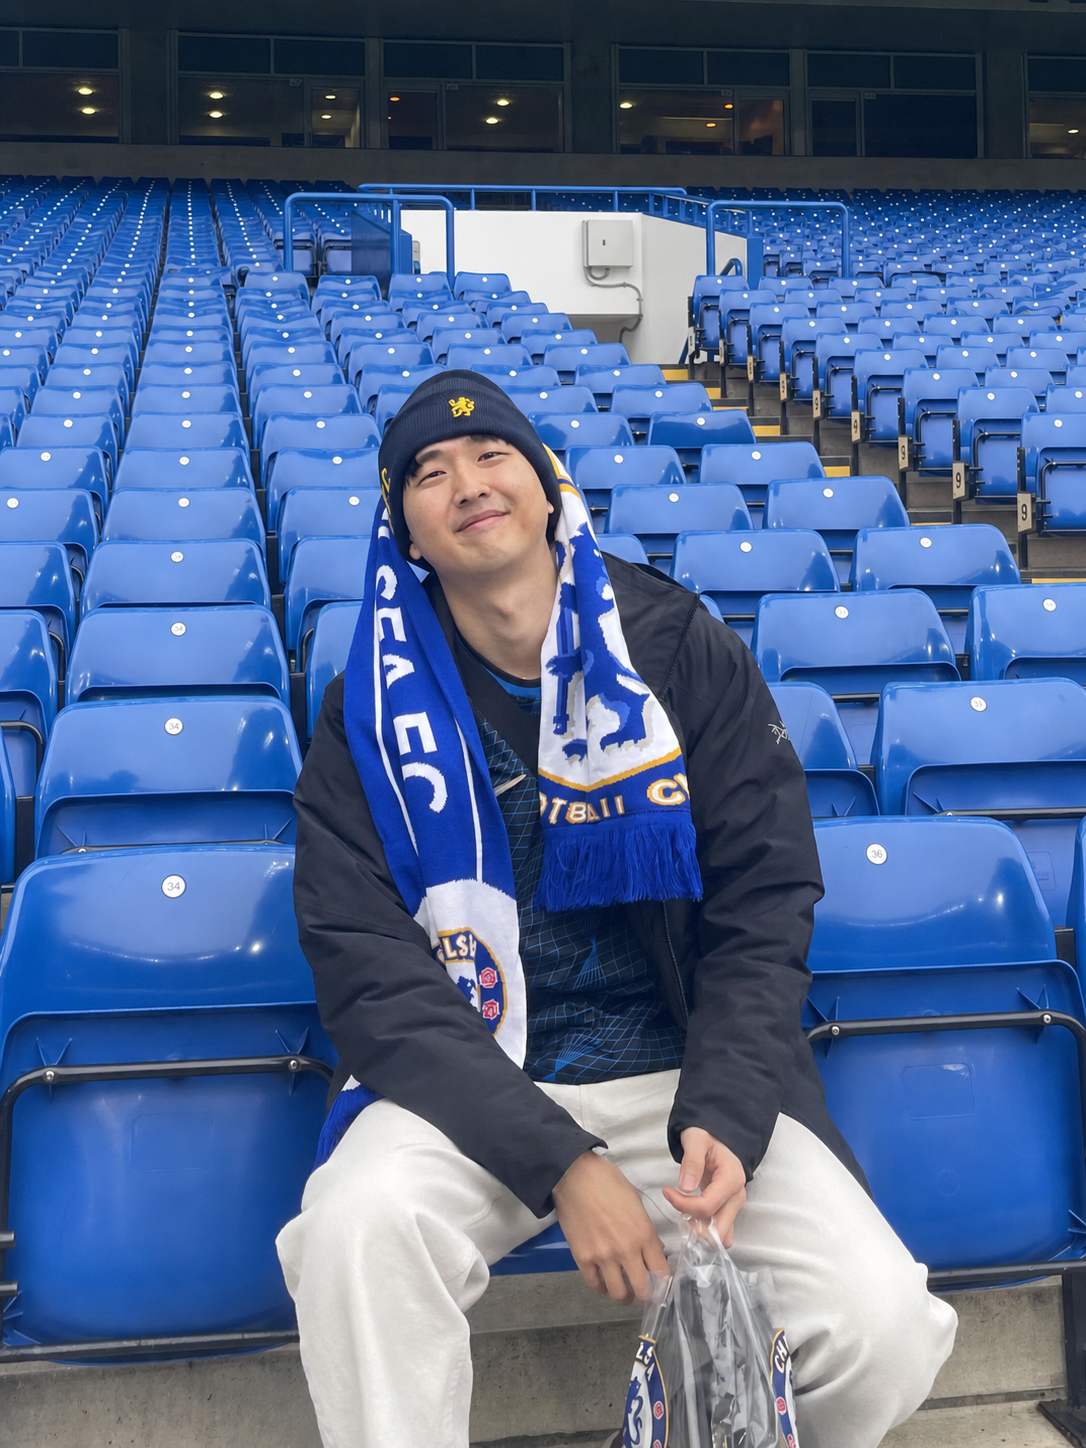
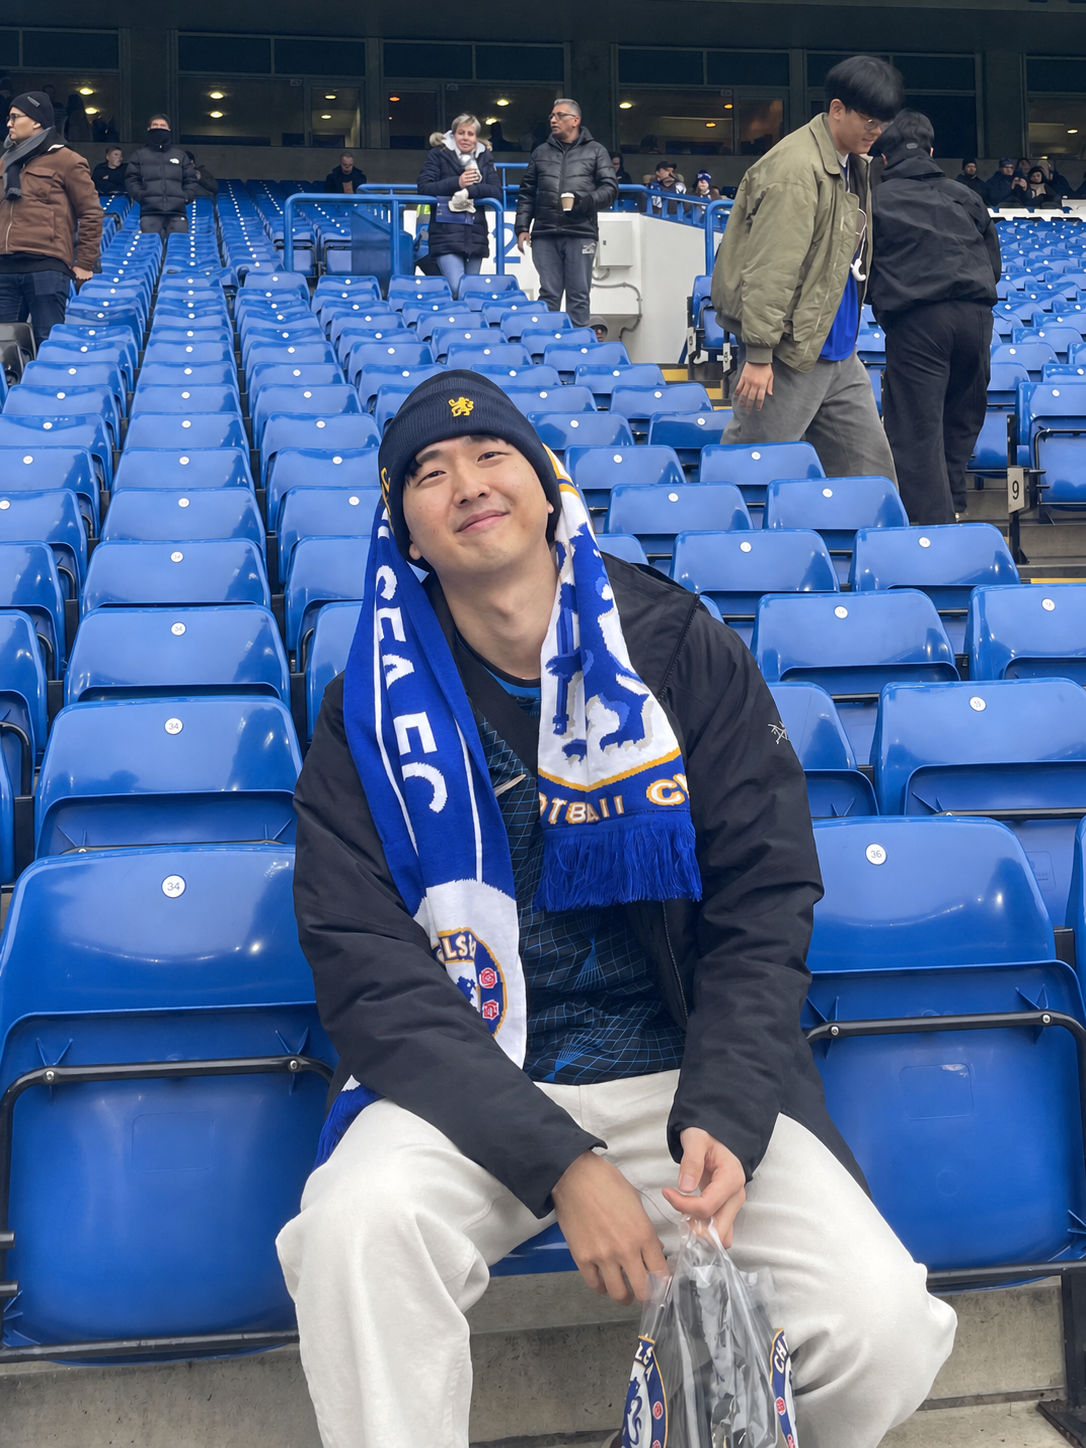
Update homepage layout and RL project poster

diff --git a/index.html b/index.html
@@ -5,13 +5,15 @@ title: "Joonsup Kim"
 
 <main class="home">
   <section class="intro">
+    <img class="profile-photo" src="{{ "/assets/images/joonsup-kim-profile.png" | relative_url }}" alt="Joonsup Kim at a football stadium">
     <div class="intro-copy">
-      <p class="eyebrow">Prospective PhD Applicant</p>
       <h1>Joonsup Kim</h1>
-      <p class="lead">
-        I am an M.S. student in Data Science at Seoul National University, advised by <a href="https://minoh.io">Prof. Min-hwan Oh</a>. My research focuses on bandit algorithms, reinforcement learning, online learning, and optimization for decision-making under uncertainty. Before joining SNU, I completed a double major in Mathematics and Economics at Yonsei University.
+      <p>
+        Hi, I’m Joonsup Kim. I’m an M.S. student in Data Science at Seoul National University, where I am fortunate to be advised by <a href="https://minoh.io">Prof. Min-hwan Oh</a>.
+      </p>
+      <p>
+        My research interests mainly lie in operations management, bandit algorithms, and reinforcement learning. Before joining SNU, I studied Mathematics and Economics at Yonsei University.
       </p>
     </div>
-    <img class="profile-photo" src="{{ "/assets/images/joonsup-kim-profile.png" | relative_url }}" alt="Joonsup Kim at a football stadium">
   </section>
 </main>

diff --git a/assets/css/index.sass b/assets/css/index.sass
@@ -60,13 +60,13 @@ body > *
 
   .intro
     display: grid
-    grid-template-columns: minmax(0, 1fr) 10em
+    grid-template-columns: minmax(0, 1fr) minmax(0, 3fr)
     align-items: center
-    gap: 2em
+    gap: 1.75em
     padding-bottom: 1.7em
 
   .profile-photo
-    width: 10em
+    width: 100%
     height: auto
     margin: 0
     border-radius: .75em
@@ -156,7 +156,7 @@ body > *
 
     .profile-photo
       grid-row: 1
-      width: 8em
+      width: 7em
 
     .two-column
       grid-template-columns: 1fr

diff --git a/signal-free-flow.md b/signal-free-flow.md
@@ -4,26 +4,22 @@ title: "Signal-Free Flow: Reinforcement Learning for Autonomous Intersections"
 permalink: /projects/signal-free-flow/
 ---
 
-![Average waiting time and throughput for fixed-signal, rule-based, and PPO controllers across traffic levels]({{ "/assets/images/projects/signal-free-flow-results.png" | relative_url }})
+![Signal-Free Flow reinforcement learning project poster]({{ "/assets/images/projects/signal-free-flow-poster.png" | relative_url }})
 
 **Reinforcement Learning Course Final Project · Team Project**
 
-Signal-Free Flow studies whether cooperative autonomous-driving policies can replace traffic lights at a four-way intersection. We built a custom simulator and compared a fixed-time signal controller, a cooperative rule-based controller, and a decentralized PPO policy under low-, medium-, and high-traffic conditions.
+Signal-Free Flow studies whether reinforcement learning can improve traffic flow at a fully autonomous four-way intersection. We built a custom simulator and compared fixed-time signal control, cooperative rule-based control, and a decentralized PPO policy.
 
 ## Approach
 
-Each active vehicle shares a PPO policy and chooses among deceleration, maintaining speed, and acceleration from a 54-dimensional local observation. Because reward design alone produced policies that either collided or became overly conservative, we introduced three safety priors:
+Pure reinforcement learning was highly sensitive to reward scaling: aggressive policies collided, while overly conservative policies stopped before entering the intersection. To make learning safer and more stable, we combined PPO with:
 
-- a rule-based controller encoding car-following and conflict-priority rules;
-- behavior-cloning warm start from approximately 6,000 expert state-action pairs;
-- a runtime safety shield that replaces unsafe actions before execution.
+- rule-based safety knowledge for safe distance, conflict detection, and yielding;
+- a behavior-cloning warm start from safe driving examples;
+- a runtime safety shield that overrides unsafe actions during PPO fine-tuning.
 
 ## Results
 
-The safety-aware PPO controller completed evaluation without collisions and outperformed both baselines on waiting time, delay, throughput, and completion rate across all three traffic levels. Compared with the fixed-time signal, it reduced average delay by **80%, 69%, and 38%** in low-, medium-, and high-traffic settings, respectively, while increasing throughput by approximately **2.8–3.4×**.
-
-The ablation study also showed that safety did not emerge reliably from reward tuning alone: removing the runtime shield caused every evaluation episode to end in a collision. The project therefore highlights a practical division of labor—explicit safety mechanisms define the admissible behavior, while reinforcement learning optimizes efficiency within that safe region.
-
-[View the full project report (PDF)]({{ "/assets/files/signal-free-flow-report.pdf" | relative_url }})
+The PPO controller reduced waiting time while increasing throughput across traffic levels. The project’s central finding is that reinforcement learning works best here when explicit safety mechanisms provide a reliable starting point and guard unsafe actions, allowing PPO to focus on traffic efficiency.
 
 [← Back to Projects]({{ "/projects/" | relative_url }})

diff --git a/education.md b/education.md
@@ -16,5 +16,3 @@ Working thesis / manuscript in preparation: “Two-Sided Contextual Bandits with
 **B.S. in Mathematics; B.A. in Economics, Double Major** · Mar 2019–Feb 2025
 
 - Graduated 4th out of 42 in Mathematics.
-- Overall GPA: 3.95/4.30, converted GPA: 3.85/4.00.
-- Major GPA: 4.03/4.30, converted GPA: 3.92/4.00.

diff --git a/projects.md b/projects.md
@@ -24,7 +24,7 @@ permalink: /projects/
   <article class="project-card">
     <h2><a href="{{ "/projects/signal-free-flow/" | relative_url }}">Signal-Free Flow</a></h2>
     <a class="project-image" href="{{ "/projects/signal-free-flow/" | relative_url }}" aria-label="Read about the Signal-Free Flow reinforcement learning project">
-      <img src="{{ "/assets/images/projects/signal-free-flow-results.png" | relative_url }}" alt="Waiting time and throughput comparison across traffic levels">
+      <img src="{{ "/assets/images/projects/signal-free-flow-poster.png" | relative_url }}" alt="Signal-Free Flow reinforcement learning project poster">
     </a>
     <p>Reinforcement Learning Course Project</p>
   </article>